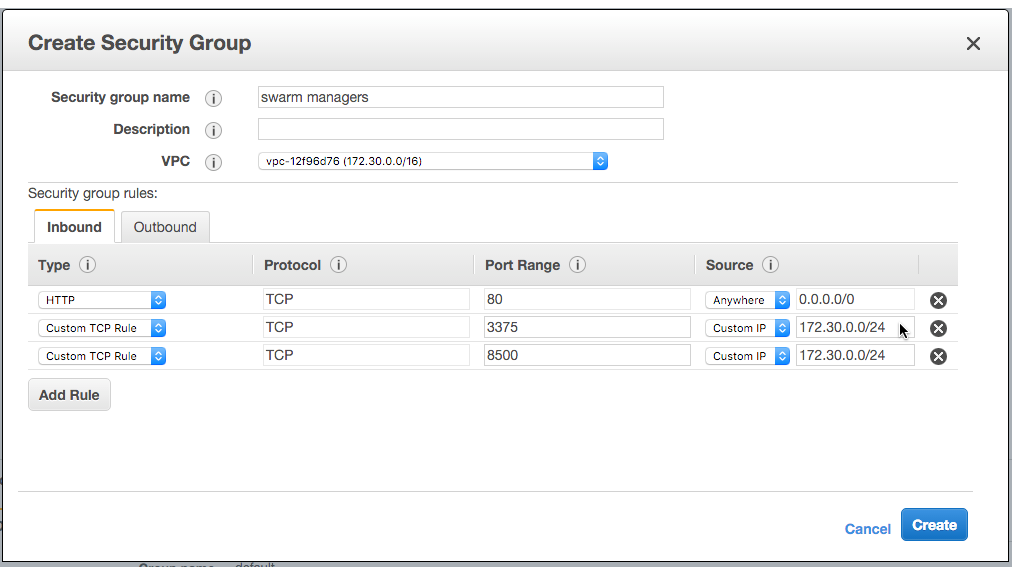
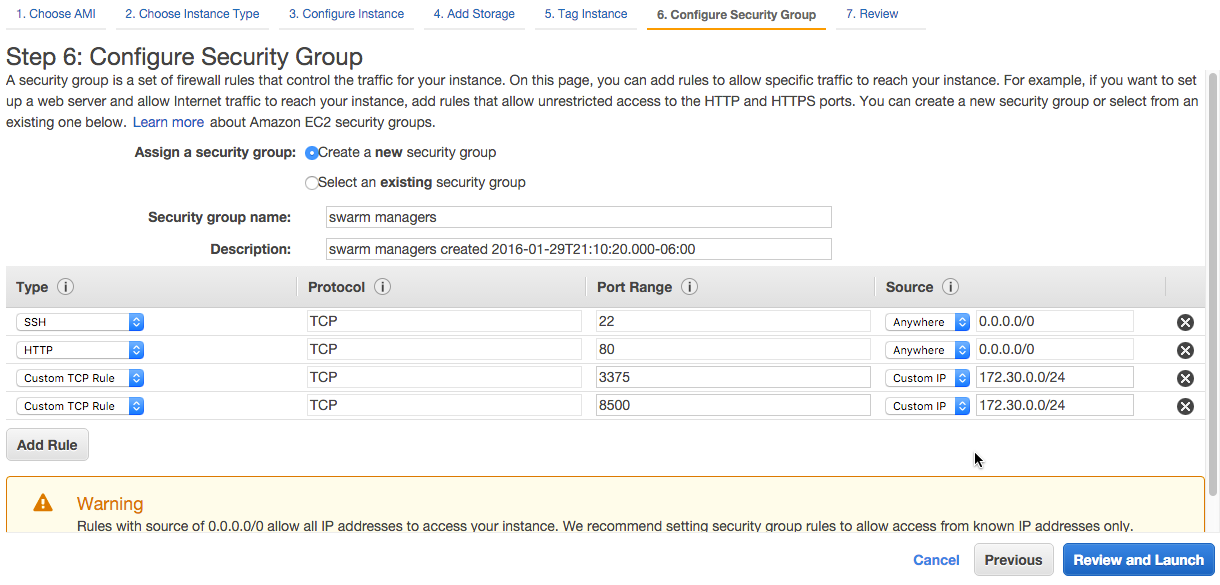
Updated work on Swarm AWS

Changed region(s): [[0.0, 0.0, 1.0, 1.0], [0.582, 0.2698, 0.6126, 0.2998], [0.0, 0.4198, 0.0306, 0.4497]]

diff --git a/docs/install-on-aws.md b/docs/install-on-aws.md
@@ -20,102 +20,158 @@ For a gentler introduction to Swarm, try the [Swarm get started (novice)](https:
 
 ## Prerequisites
 
-- An Amazon AWS account
-- Familiarity with:
-  - AWS services and procedures
-  - Using SSH to connect to an EC2 instance
+- An Amazon Web Services (AWS) account
+- Familiarity with AWS products and features:
+  - EC2 Virtual Servers in the Cloud
+  - Virtual Private Cloud (VPC)
+  - VPC Security groups
+  - Creating SSH keys and using them to to connect to an EC2 instance
 
-## Step 1: Create an AMI an EC2 instance running Docker Engine  
+
+## Step 1: Create an AMI an EC2 instance that has Docker Engine  
 
 1. Log in to your Amazon AWS account and open the Home Console.
 
 2. Open the EC2 Dashboard, create an instance using the *Amazon Linux AMI*.
 
-2. Connect to the instance using SSH.
+4. Connect to the instance using SSH.
 
-3. Install Docker Engine [using these Amazon instructions](http://docs.aws.amazon.com/AmazonECS/latest/developerguide/docker-basics.html#install_docker).
+5. Install Docker Engine on the instance [using these  instructions](https://docs.docker.com/engine/installation/rhel/#install-with-the-script).
 
-    >Ignore the note in Amazon's instructions about yum not installing the minimum Docker version of 1.5.0. At the time this is being written, running the `sudo yum install -y docker` command installs the recommended version, 1.9.1.
+    >Make sure you use the `sudo usermod -aG docker ec2-user` command mentioned by the command line output, followed by `logout`. Then log back in and test your D.
 
-    <To install the latest version of Docker Engine, do xy...>
+6. Now, create an AMI image of your instance.
 
-3. Instead of repeating the previous steps for every EC2 instance,  [http://docs.aws.amazon.com/AWSToolkitVS/latest/UserGuide/tkv-create-ami-from-instance.html](create an AMI image of your instance). Name it something like "AL-AMI running Docker Engine" and include the version of Docker Engine in the description.
+    ![Create image of EC2 instance](/images/create-image.png)
 
-    While AWS finishes generating the AMI, go create security groups for your instances. When you're done with that, you'll use your new AMI to create multiple EC2 instances.
+    Name it something like "AL-AMI running Docker Engine 1.10".
 
-## Create security groups
+## Create three instances for an etcd discovery backend
 
-Create three security groups that you can use to control inbound traffic for each type of instance.  
+<Use information from https://coreos.com/etcd/docs/2.0.9/docker_guide.html#running-a-3-node-etcd-cluster>
 
-In your AWS **EC2 Dashboard**, under **NETWORK & SECURITY > Security Groups**, create three security groups with the following inbound settings. (You can leave the outbound settings unchanged.)
+## Create two instances for Swarm managers
 
-Important: For the entries that start with **Custom TCP Rule**, don't use the VPC Classless Inter-Domain Routing (CIDR) block shown in the following screen shots under **Source**.  Instead, use the CIDR block for *the VPC your instance is using*.
+In the EC2 Dashboard, click *Launch Instance*.
 
->To obtain the CIDR block of your VPC: Look at the description of your instance, and get its VPC ID. Then, from the Home Console, open the VPC dashboard, and look at the VPC that uses the same ID, and get its VPC CIDR block.
-
-> If you assign your security groups to a VPC (optional), assign them to the same VPC that the EC2 instances belong to.
-
-> Unless you purposefully created a VPC for this example, the EC2 instance probably belongs to the *default* VPC security group.
-
-### Swarm mangers
-
-![Swarm managers](/images/security-group-inbound-rules-for-managers.png)
-
-### Swarm nodes
-
-![Swarm managers](/images/security-group-inbound-rules-for-nodes.png)
-
-### Consul
-
-![Swarm managers](/images/security-group-inbound-rules-for-consul.png)
-
-## Create EC2 instances using your AMI
-
-In the EC2 Dashboard, click *Launch Instance*. For *Step 1. Choose AMI Image*,  click the tab for *My AMIs*, and select your "AL-AMI running Docker Engine".
+For *Step 1. Choose AMI Image*,  click the tab for *My AMIs*, and select your "AL-AMI running Docker Engine".
 
 ![My AMIs Docker Engine](/images/my-amis-select-alami-docker-engine.png)
 
-On *Step 3: Configure Instance Details*, change the "Number of Instances". For this example, you only need two instances, but feel free to create more.
+On *Step 3: Configure Instance Details*, set "Number of Instances" to `2`.
 
 ![Configure Instance Details](/images/configure-instance-details.png)
 
-On *Step 6: Configure Security Group*, choose "Select an existing security group" and change the security group so only **Swarm managers** is selected.
+On *Step 5: Tag Instance*, set the `Value` of `Name` to "Swarm manager".
 
-![Security Group for Swarm Managers](/images/configure-security-group-manager.png)
+On *Step 6: Configure Security Group*, Use `Create a new security group` to create one called "Swarm managers". Add the following Inbound rules to it:
 
-Launch the instances that will become Swarm managers!
+| Type             | Protocol   | Port Range | Source        |
+| ---------------  | -----      | -----      | -----         |
+| SSH              | TCP        | 22         | 0.0.0.0/0     |
+| HTTP             | TCP        | 80         | 0.0.0.0/0     |
+| Custom TCP Rule  | TCP        | 2375       | 172.30.0.0/24 |
+| Custom TCP Rule  | TCP        | 3375       | 172.30.0.0/24 |
 
-Return to the EC2 Dashboard and repeat these steps, launching two instances that use security group for **Swarm nodes**.    
+Then, launch the instances!
 
-![Security Group for Swarm Nodes](/images/configure-security-group-nodes.png)
+## Create two instances for Swarm nodes
+
+Return to the EC2 Dashboard and launch two instances.  
+
+On *Step 5: Tag Instance*, set the `Value` of `Name` to "Swarm node".
+
+On *Step 6: Configure Security Group*, choose "Create a new security group".
+
+Name the security group "Swarm nodes" and add the following Inbound rules to it:
+
+| Type             | Protocol   | Port Range | Source        |
+| ---------------  | -----      | -----      | -----         |
+| SSH              | TCP        | 22         | 0.0.0.0/0     |
+| HTTP             | TCP        | 80         | 0.0.0.0/0     |
+| Custom TCP Rule  | TCP        | 2375       | 172.30.0.0/24 |
+
+## Create three instances for etcd discovery backend
+
+Return to the EC2 Dashboard and launch three instances.  
+
+On *Step 5: Tag Instance*, set the `Value` of `Name` to "etcd discovery backend".
+
+On *Step 6: Configure Security Group*, choose "Create a new security group".
+
+Name the security group "etcd discovery backend" and add the following Inbound rules to it:
+
+| Type             | Protocol   | Port Range | Source        |
+| ---------------  | -----      | -----      | -----         |
+| SSH              | TCP        | 22         | 0.0.0.0/0     |
+| Custom TCP Rule  | TCP        | 4001       | 172.30.0.0/24 |
+| Custom TCP Rule  | TCP        | 2380       | 172.30.0.0/24 |
+| Custom TCP Rule  | TCP        | 2379       | 172.30.0.0/24 |
 
 ## Some notes about security and high availability
 
-For production, consult with a security expert to tighten your network security. This can include applying more restrictive settings to your security groups, applying a Network Access Control List NACL, and other strategies not mentioned in this example.
+To use this example in production, consult with an expert to improve your network security. That person may apply more restrictive settings to your security groups, applying a Network Access Control List NACL, and other strategies not mentioned in this example.
 
 For high-availability, you can deploy instances over multiple failure domains, such as AWS availability zones. For example, you can deploy each swarm managers in each of the AWS availability zones for your Region. Refer to the AWS documentation for information about this topic.
 
+## Set up a etcd discovery backend
+
+Here, you're going to create a high-availability discovery backend for Swarm. The etcd nodes are going to run as containers on Docker Engine nodes on three separate EC2 instances.
+
+To start, copy each of the following etcd launch commands to a text document. Replace the <ETCD# PUBLIC IP ADDRESS> placeholders in the text with the publicly visible IP address of each instance.
+
+(To get the IP address, go to EC2 Dashboard > Instances, select an instance, and click the Connect button. This displays the IP address in Connect to Your Instance window.)
+
+![Get public IP address](./images/get-public-ip-address.png)
+
+When you've finished editing the following launch commands, connect to each  instance and use the command to launch an etcd node.
+
+### etcd0 launch command
+
+        docker run -d -p 4001:4001 -p 2380:2380 -p 2379:2379 --name etcd quay.io/coreos/etcd:v2.0.3 \
+         -name etcd0 \
+         -advertise-client-urls http://<ETCD0 PUBLIC IP ADDRESS>:2379,http://<ETCD0 PUBLIC IP ADDRESS>:4001 \
+         -listen-client-urls http://0.0.0.0:2379,http://0.0.0.0:4001 \
+         -initial-advertise-peer-urls http://<ETCD0 PUBLIC IP ADDRESS>:2380 \
+         -listen-peer-urls http://0.0.0.0:2380 \
+         -initial-cluster-token etcd-cluster-1 \
+         -initial-cluster etcd0=http://<ETCD0 PUBLIC IP ADDRESS>:2380,etcd1=http://<ETCD1 PUBLIC IP ADDRESS>:2380,etcd2=http://<ETCD2 PUBLIC IP ADDRESS>:2380 \
+         -initial-cluster-state new
+
+### etcd1
+
+        docker run -d -p 4001:4001 -p 2380:2380 -p 2379:2379 --name etcd quay.io/coreos/etcd:v2.0.3 \
+         -name etcd1 \
+         -advertise-client-urls http://<ETCD1 PUBLIC IP ADDRESS>:2379,http://<ETCD1 PUBLIC IP ADDRESS>:4001 \
+         -listen-client-urls http://0.0.0.0:2379,http://0.0.0.0:4001 \
+         -initial-advertise-peer-urls http://<ETCD1 PUBLIC IP ADDRESS>:2380 \
+         -listen-peer-urls http://0.0.0.0:2380 \
+         -initial-cluster-token etcd-cluster-1 \
+         -initial-cluster etcd0=http://<ETCD0 PUBLIC IP ADDRESS>:2380,etcd1=http://<ETCD1 PUBLIC IP ADDRESS>:2380,etcd2=http://<ETCD2 PUBLIC IP ADDRESS>:2380 \
+         -initial-cluster-state new
+
+### etcd2
+
+        docker run -d -p 4001:4001 -p 2380:2380 -p 2379:2379 --name etcd quay.io/coreos/etcd:v2.0.3 \
+         -name etcd2 \
+         -advertise-client-urls http://<ETCD2 PUBLIC IP ADDRESS>:2379,http://<ETCD2 PUBLIC IP ADDRESS>:4001 \
+         -listen-client-urls http://0.0.0.0:2379,http://0.0.0.0:4001 \
+         -initial-advertise-peer-urls http://<ETCD2 PUBLIC IP ADDRESS>:2380 \
+         -listen-peer-urls http://0.0.0.0:2380 \
+         -initial-cluster-token etcd-cluster-1 \
+         -initial-cluster etcd0=http://<ETCD0 PUBLIC IP ADDRESS>:2380,etcd1=http://<ETCD1 PUBLIC IP ADDRESS>:2380,etcd2=http://<ETCD2 PUBLIC IP ADDRESS>:2380 \
+         -initial-cluster-state new
+
+<For more information, see https://coreos.com/etcd/docs/2.0.9/docker_guide.html#running-a-3-node-etcd-cluster>
+
 ## Create the Swarm managers
 
-Back in the EC2 Dashboard, under Instances, use the filter to display only instances whose Security Group Name is Swarm Managers.
-
-![Filter by Security Group for Swarm Managers](/images/filter-instance-by-security-group-manager.png)
-
-***For each instance***, do the following.
-
-Connect using SSH.
-
-![Connect to each manager instance using SSH](/images/connect-to-a-manager.png)
-
-        rolfedlugy-hegwer at RsMBP in ~/Downloads
-        $ ssh -i "macamikey.pem" root@52.91.210.70
-        The authenticity of host '52.91.210.70 (52.91.210.70)' can't be established.
-        ECDSA key fingerprint is SHA256:EUeUxxasdfzEafUz9ffadsKfBGvasHl/afdWXZXafdU.
-        Are you sure you want to continue connecting (yes/no)?
+Connect to each of the instances named "Swarm manager" using SSH.
 
 Start the Swarm manager.
 
-        docker run -d -p <manager_port>:2375 swarm manage token://<cluster_id>
+        docker run -d -p <manager_port>:2375 swarm manage etcd://<ip1>,<ip2>/<path>
+
 
 The manager is exposed and listening on `<manager_port>`.
 
@@ -147,21 +203,15 @@ Check your configuration by running `docker info` as follows:
 
 <update procedure to use TLS>    
 
-## Step 2: Set up your EC2 network
+### Talk about ports
 Open ports
 Talk about port options
 Specific discussion of difference between ports 2375, 2376 and 3375/6
 
-## Step 3.  Create a Discovery Token
-Get a token for the cluster
-Explain what the token is for
+## Create the Swarm nodes
 
-## Step 4: Create the HA Swarm managers
-Create the managers including TCP ports and Discovery
 
-## Step 5. Create the Swarm nodes
-
-## Step 6. Deploy a container on a swarm
+## Connect to the Swarm master and deploy a container on a swarm
 Explain the relationship via text/diagram
 Illustrate via command-line examples how to do this
 Leverage portions of getting started (novice) example.
